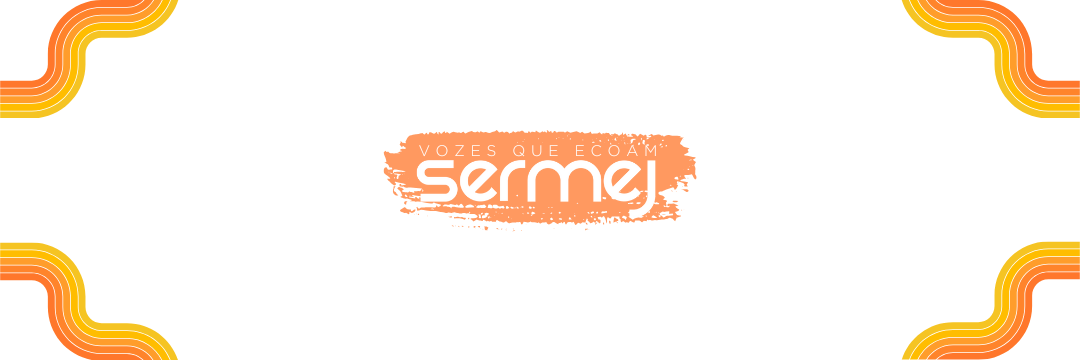
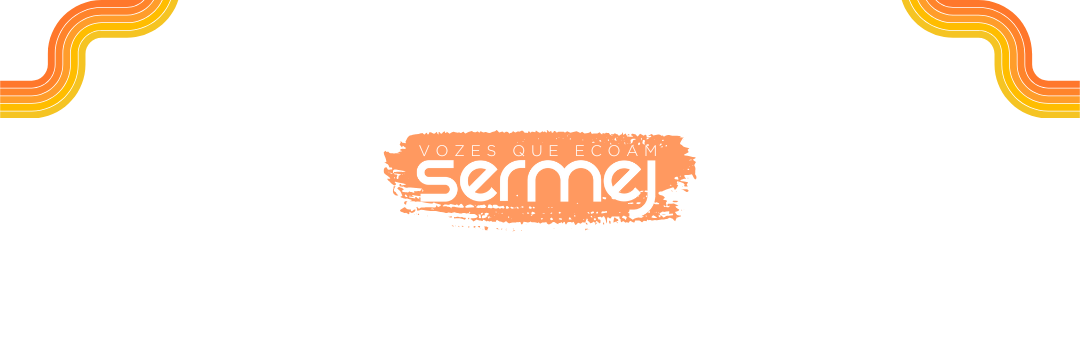
resolvido o flap, o envelope, e o background da carta tb

Changed region(s): [[0.825, 0.6722, 1.0, 1.0], [0.0, 0.6722, 0.1833, 1.0]]

diff --git a/style.css b/style.css
@@ -36,6 +36,10 @@ body {
   box-shadow: 0px 4px 10px rgba(0,0,0,0.3);;
   text-shadow: #FF772B;
   margin-top: -200px;
+  background-image: url(assets/lado\ de\ fora.png);
+  background-size: 100% 100%;
+  background-repeat: no-repeat;
+  background-position: center;
 }
 
 .flap {
